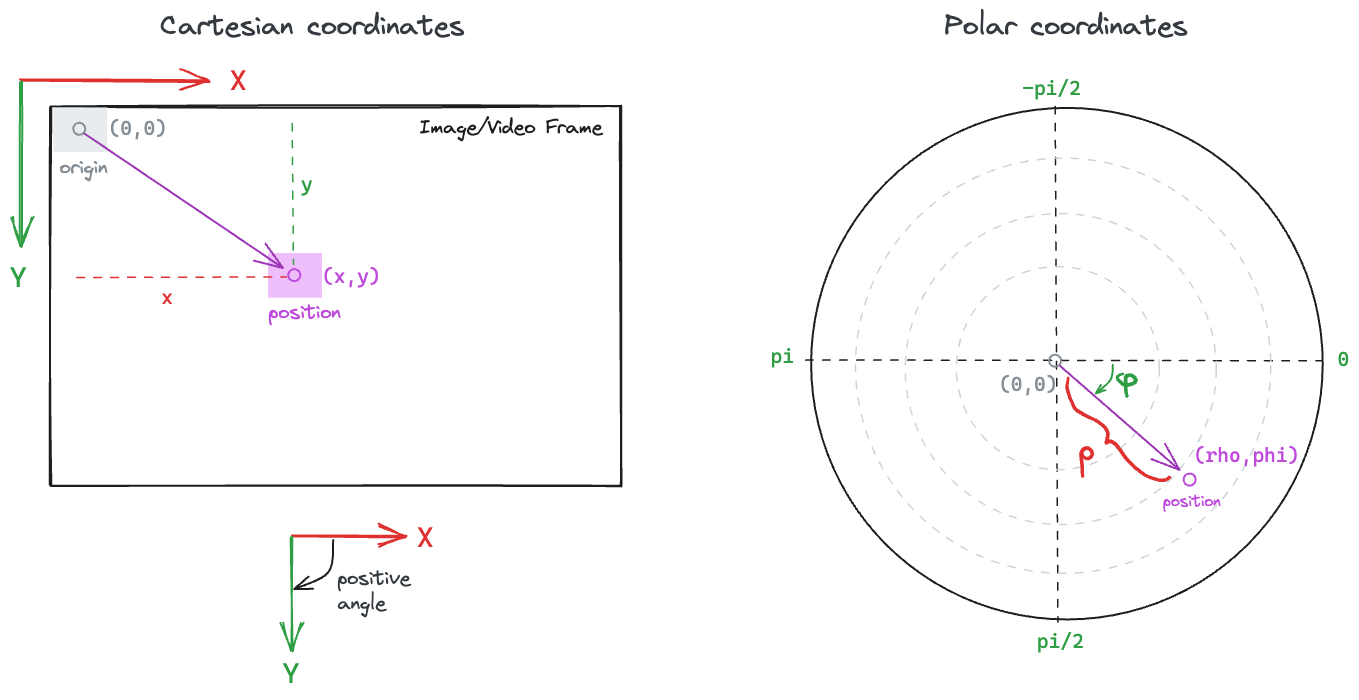
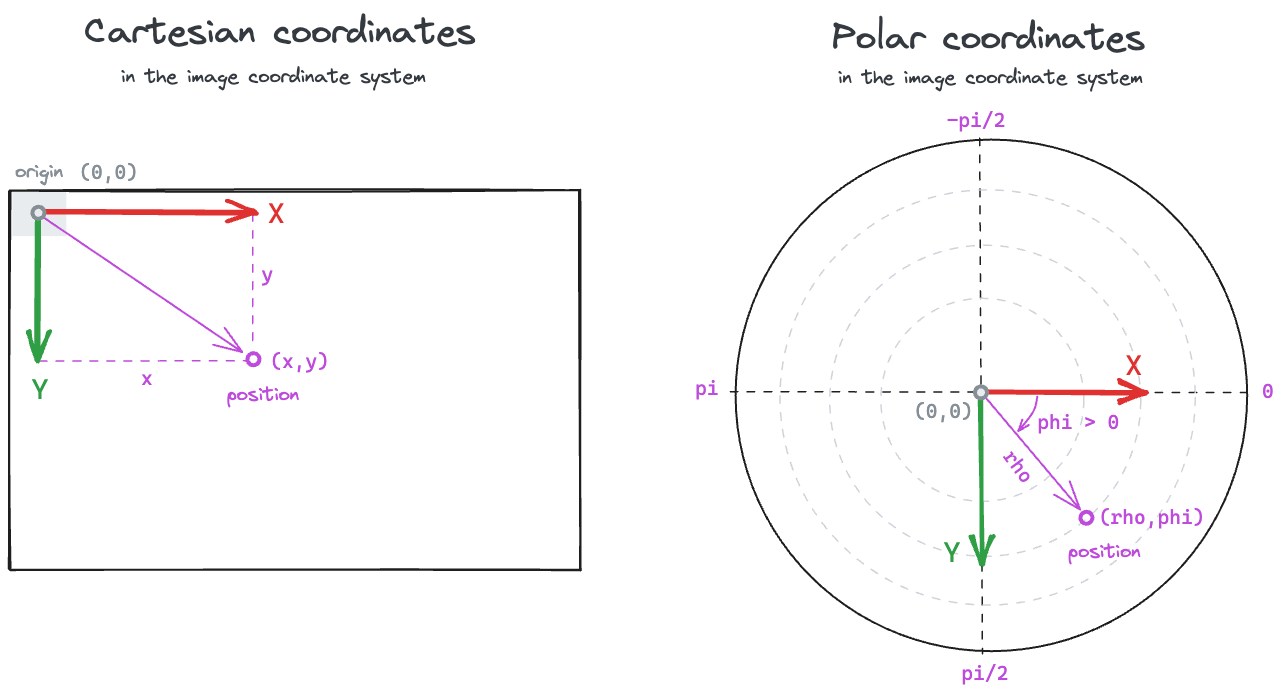
updates schematics and accompanying notes

diff --git a/examples/compute_head_direction.py b/examples/compute_head_direction.py
@@ -113,13 +113,14 @@ head_to_snout = snout - midpoint_ears
 # .. admonition:: Vector subtraction
 #   :class: note
 #
-#   You can think of each point's position as a 2D vector, with its base at the
-#   origin (for image coordinates, that's the centre of the pixel at
-#   the top-left corner of the image) and its tip at the point's position.
+#   Note that any position data point can be seen as a point :math:`U` in the
+#   2D plane, or as a 2D vector :math:`\vec{u}` that goes from the image
+#   coordinate system origin (by default, the centre of the top-left pixel)
+#   to the point :math:`U` (see left subplot).
 #
 #   The vector that goes from point :math:`U` to point :math:`V` can be
-#   computed as the difference :math:`\vec{v} - \vec{u}`, i.e.
-#   "tip - base" (see the image below).
+#   computed as the difference :math:`\vec{v} - \vec{u}`
+#   (see right subplot).
 #
 #   .. image:: ../_static/Vector-Subtraction.png
 #     :width: 600
@@ -191,21 +192,26 @@ print(head_to_snout_polar)
 # coordinates: ``rho`` and ``phi``. These are the polar coordinates of the
 # head vector.
 #
-# The coordinate ``rho`` is the norm (i.e., magnitude, length) of the vector.
-# In our case, the distance from the midpoint between the ears to the snout.
-# The coordinate ``phi`` is the orientation of the head vector relative to the
-# positive x-axis, and ranges from :math:`-\pi` to :math:`\pi` in radians
-# (following the `atan2 <https://en.wikipedia.org/wiki/Atan2>`_ convention).
+# .. admonition:: Polar coordinates
+#   :class: note
 #
-# In the default image coordinate system and with this convention, the angle
-# ``phi`` will be positive if the shortest path from the positive x-axis to
-# the vector is a clockwise rotation. Conversely, ``phi`` will be negative
-# if the shortest path from the positive x-axis to the vector is an
-# anti-clockwise rotation.
+#   The coordinate ``rho`` is the norm (i.e., magnitude, length) of the vector.
+#   In our case, the distance from the midpoint between the ears to the snout.
 #
-# .. image:: ../_static/Cartesian-vs-Polar.png
-#   :width: 600
-#   :alt: Schematic comparing cartesian and polar coordinates
+#   The coordinate ``phi`` is the shortest angle (in radians) between the
+#   positive x-axis and the  vector, and ranges from :math:`-\pi` to
+#   :math:`\pi` (following the
+#   `atan2 <https://en.wikipedia.org/wiki/Atan2>`_ convention).
+#   The ``phi`` angle is positive if the rotation
+#   from the positive x-axis to the vector is in the same direction as
+#   the rotation from the positive x-axis to the positive y-axis.
+#   In the default image coordinate system, this means  ``phi`` will be
+#   positive if the rotation is clockwise, and negative if the rotation
+#   is anti-clockwise.
+#
+#   .. image:: ../_static/Cartesian-vs-Polar.png
+#     :width: 600
+#     :alt: Schematic comparing cartesian and polar coordinates
 
 # %%
 # ``movement`` also provides a ``pol2cart`` function to transform
